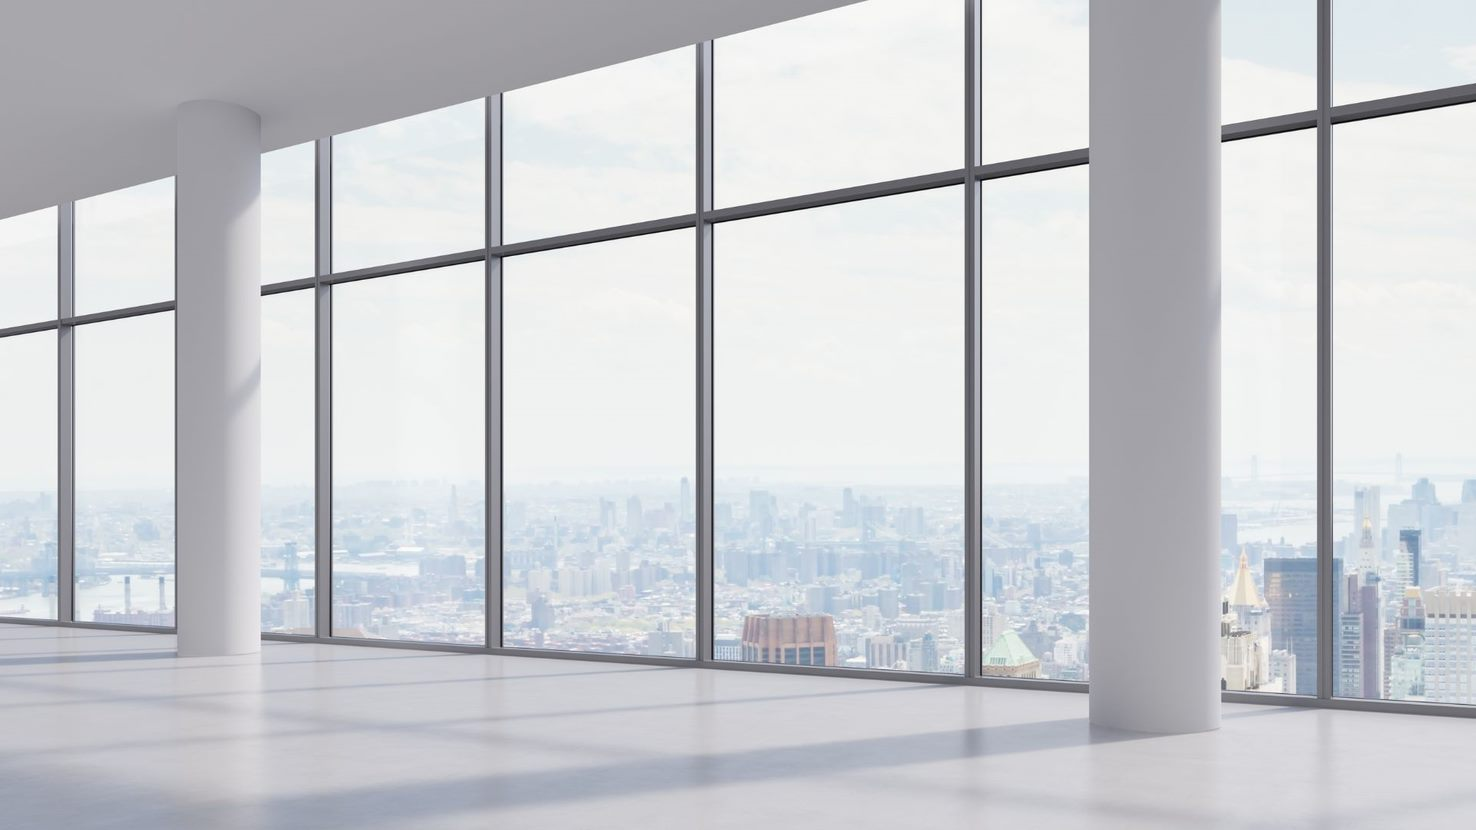
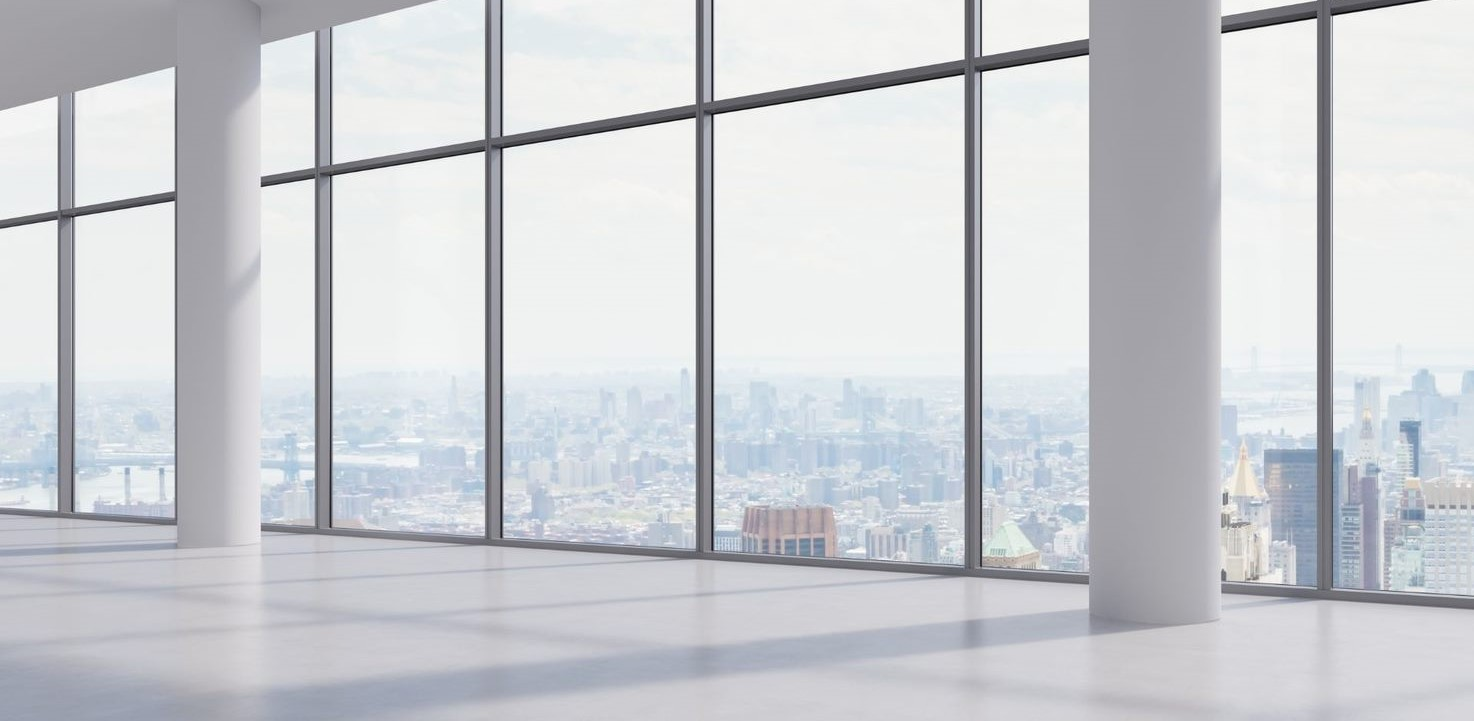
ubah lagi

diff --git a/assets/style.css b/assets/style.css
@@ -26,15 +26,15 @@
     background-position: 50% 50%;
     background-size: cover;
     background-repeat: no-repeat;
-    height: 706px;
+    height: 100%;
     position: relative;
-    width: 1400px;
+    width: 100%;
 }
 
 .overlap-group4 {
     left: 70px;
     position: absolute;
-    top: 120px;
+    top: 21px;
 }
 
 /* tiang */
@@ -251,7 +251,7 @@
     min-width: 86px;
     padding: 5px 19px;
     position: absolute;
-    top: 180px;
+    top: 81px;
     height: 360px;
 }
 
@@ -443,7 +443,7 @@
     height: 360px;
     left: 890px;
     position: absolute;
-    top: 273px;
+    top: 174px;
     width: 203px;
 }
 
@@ -525,7 +525,7 @@
     height: 27px;
     left: 4px;
     position: absolute;
-    top: 335px;
+    top: 334px;
     width: 180px;
     transform: skewY(3deg);
 }
@@ -535,7 +535,7 @@
     height: 27px;
     left: 184px;
     position: absolute;
-    top: 334px;
+    top: 333px;
     width: 21px;
     transform: skewY(-28deg);
 }
